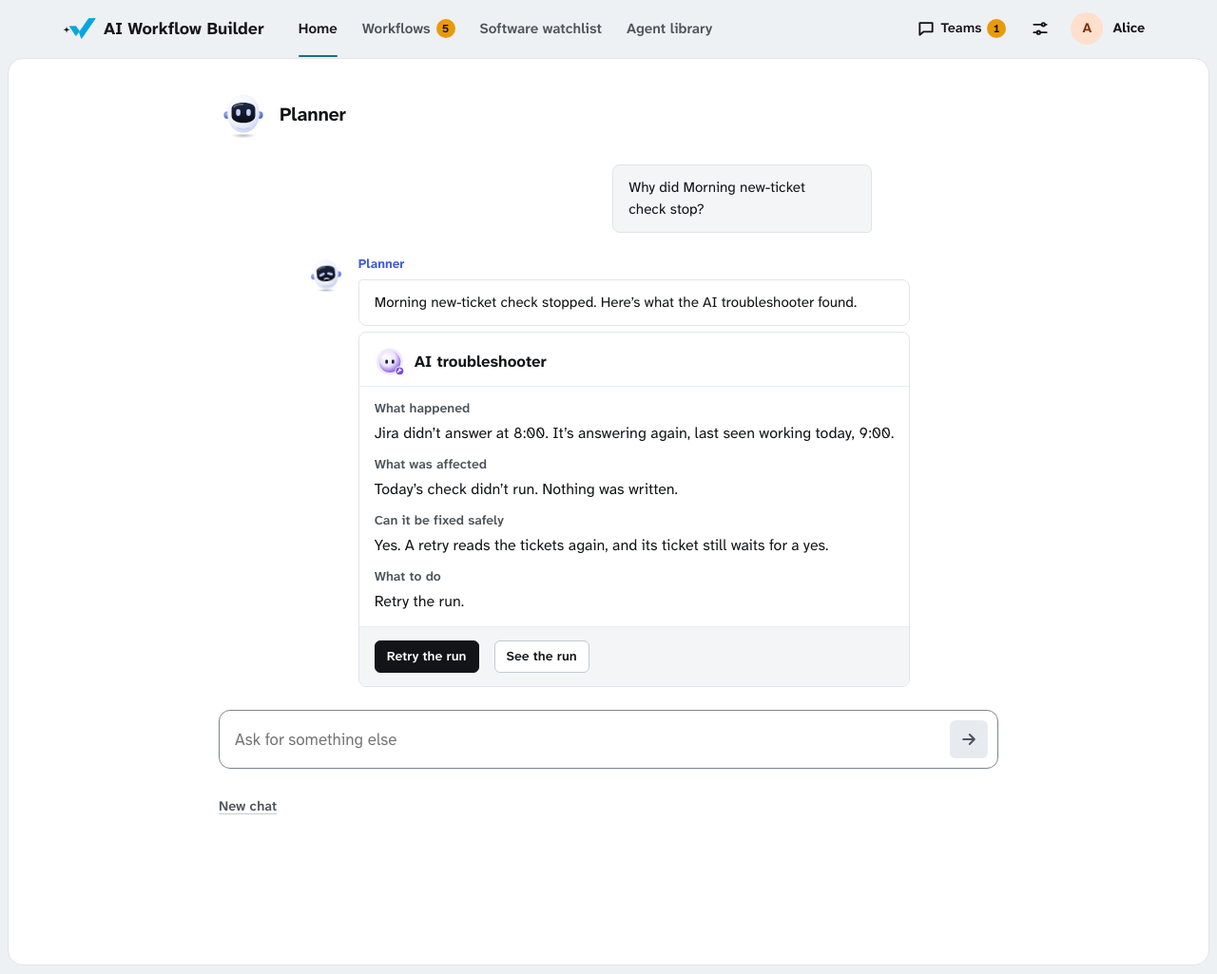
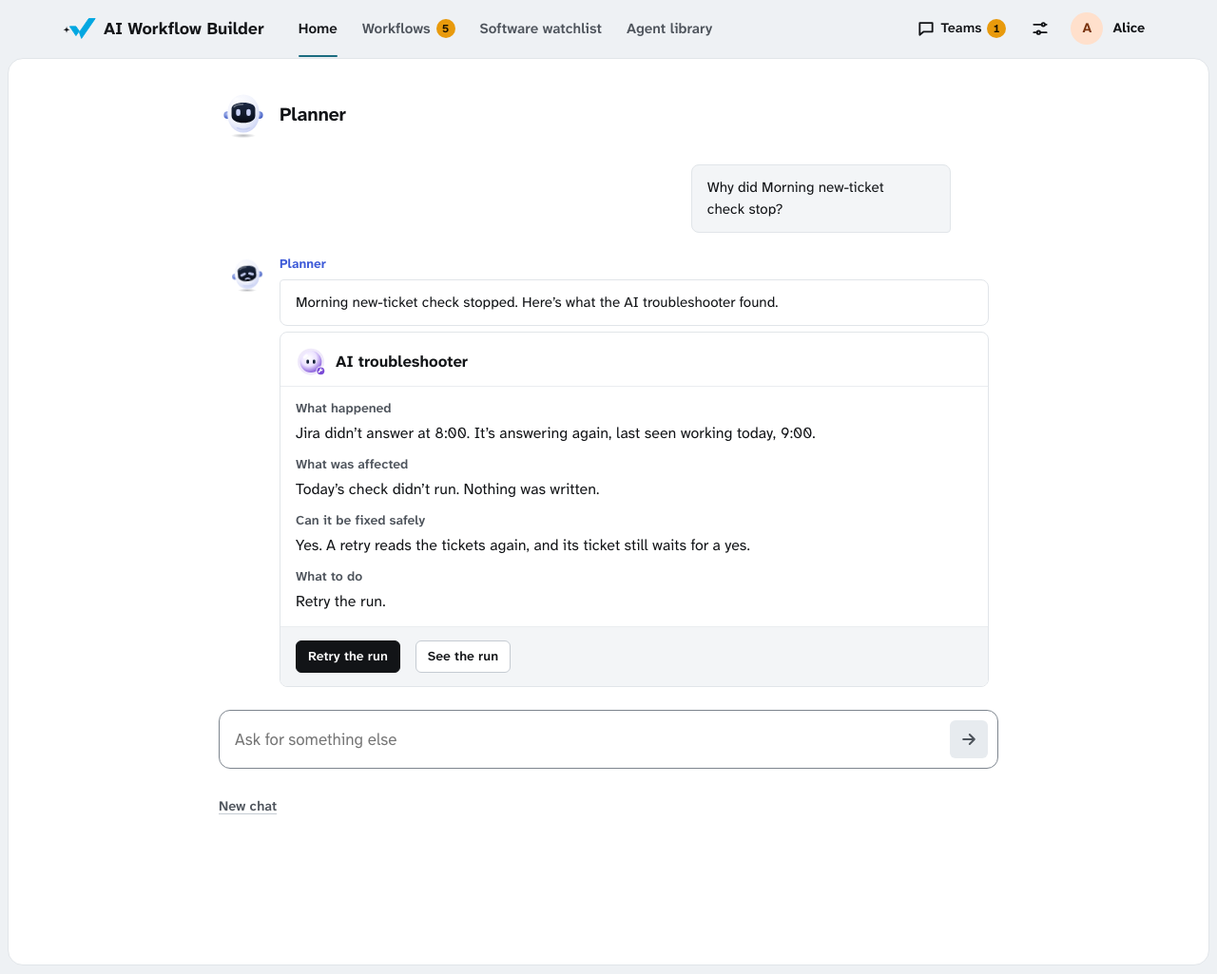
docs(builder): measure fix round C and add the user journey comparison
Re-ran every check on 513b95a: 40 of 40 scenarios twice with identical
counts, the judge's validate-v4 31 of 31, all four builder gates, axe 0
serious or critical, and 52 after screenshots. Adds
USER-JOURNEY-COMPARISON.md (deliverable C) from the measured counts, and
fills spec section 20 with the results.

Claude-Session: https://claude.ai/code/session_0163kLzc62RqJZvY6wd8CwRb

Changed region(s): [[0.1875, 0.2498, 0.75, 0.6244], [0.2188, 0.6556, 0.4688, 0.718], [0.5, 0.1873, 0.7188, 0.2185]]

diff --git a/docs/design/ai-native-redesign/USER-JOURNEY-COMPARISON.md b/docs/design/ai-native-redesign/USER-JOURNEY-COMPARISON.md
@@ -1,0 +1,258 @@
+# User journey comparison: version 3 against version 4
+
+This document compares the 6 Nov prototype (version 3, `docs/design/portal-routines/prototype.html`) with the AI-native redesign (version 4, `docs/design/ai-native-redesign/prototype.html`). It covers scenarios A to H from the redesign brief and the 15 tasks the 6 Nov handover lists for version 3.
+
+Every count here was measured by a script. None is an estimate. Where something can't be counted, such as how clear a sentence is or how sure a person feels, this document says so. Those questions need a study with real support staff (section 6).
+
+## 1. How the numbers were made
+
+- `checks/run.cjs` drove both prototypes in a real browser (Playwright, Chromium) along scripted paths. Version 3's paths are `checks/paths-v3.cjs`, version 4's are `checks/paths-v4.cjs`. An independent judge wrote version 4's paths, not the people who built version 4.
+- Each path takes the shortest route a first-time user could see on the screen. It uses no hidden shortcuts.
+- The counts are:
+  - **Clicks.** Every button press, including a key press on a button and every menu step.
+  - **Fields.** Every text box typed into.
+  - **Selects.** Every drop-down choice.
+  - **Decisions.** Steps where the person chooses something that matters, such as a project, a time, Approve or Delete. A decision is also counted as a click, a field or a select.
+  - **Screens.** Distinct pages visited, counting the starting page.
+- Test controls (the person switch, Planned features, the simulations) are never counted.
+- Each path also checks what the screen says at each step. A path that reaches the end with the wrong text fails.
+- Version 4 was measured twice. Both runs gave identical counts and results for all 40 scenarios (`checks/results/v4.json`, `v4-second.json`).
+- The raw tables are `checks/results/v3.md`, `v4.md` and `v4-compare.md`.
+
+### What the counts can't show
+
+- A scripted path knows where everything is. A real person may look in the wrong place first. The counts are a floor, not a prediction of real effort.
+- The counts say nothing about time, mistakes, understanding or confidence.
+- A lower count is not better by itself. Three rises in version 4 were chosen to make approvals safer or the screen clearer. Each is named below with its reason.
+
+### Comparisons that are not like for like
+
+Version 4 changed some sample data to stop showing things the platform can't do (UX audit X2 and I2). Three scenarios moved because of that, not only because of the design:
+
+- **B, F and T9.** In version 3 the stopped workflow was a GitHub project that had moved, fixed by choosing the new address. The built tools can't read the data that sample needed, so version 4's stopped workflow is "Jira not answering", fixed by a retry. The moved project now lives on the Software watchlist as "Use the new address". Part of the one-click saving in B, F and T9 comes from the easier sample stop.
+- **D.** Version 3 offered an alternative to the email request. Version 4 offers only Ask the team, because the request also needs a ticket's type, which the agents can't read. The count is the same. The outcome is different on purpose.
+- **T2, T11, T13 and T14** changed their sample for the same honesty reasons. Their rows say why.
+
+## 2. Scenarios A to H at a glance
+
+Counts are clicks / fields / selects / decisions / screens at 1280 px wide. A and B also ran at 390 px with the same counts as at 1280.
+
+| Scenario | Version 3 | Version 4 | Change in interactions | Passed on version 4 |
+|---|---|---|---|---|
+| A. First-time Operator | 2 / 2 / 1 / 3 / 1 | 2 / 2 / 1 / 3 / 1 | 0 | yes |
+| B. Experienced Operator, through Workflows | 3 / 0 / 0 / 1 / 3 | 2 / 0 / 0 / 1 / 3 | -1 | yes |
+| B. Experienced Operator, from Home (new) | not possible | 1 / 0 / 0 / 1 / 2 | -2 against B in version 3 | yes |
+| C. Approver | 2 / 0 / 0 / 1 / 2 | 2 / 0 / 0 / 1 / 2 | 0 | yes |
+| C. Operator can't approve their own run | 3 / 1 / 1 / 3 / 2 | 4 / 1 / 1 / 3 / 2 | +1 | yes |
+| D. Unsupported request | 1 / 1 / 0 / 0 / 1 | 1 / 1 / 0 / 0 / 1 | 0 | yes |
+| E. AI misunderstanding | 3 / 1 / 2 / 2 / 1 | 3 / 1 / 2 / 2 / 1 | 0 | yes |
+| F. Failed execution | 7 / 0 / 0 / 2 / 3 | 6 / 0 / 0 / 2 / 3 | -1 | yes |
+| G. Software monitoring | 4 / 1 / 0 / 2 / 1 | 4 / 1 / 0 / 2 / 1 | 0 | yes |
+| H. Workflow management | 9 / 1 / 2 / 5 / 3 | 10 / 1 / 2 / 5 / 3 | +1 | yes |
+
+The interaction change is clicks plus fields plus selects.
+
+## 3. Each scenario
+
+### A. First-time Operator
+
+**The task.** A new Operator signs in on day one and wants a weekly Jira summary.
+
+**Version 3.** Type "every Friday, sum up the tickets we closed this week", press Enter, choose the time, choose the Jira project, Turn it on.
+
+**Version 4.** The same five steps, with the project asked before the time.
+
+**What the brief asked to measure.**
+
+- **Is the starting action obvious?** On day one, Home in both versions is the Planner's box with "What does your team do again and again?". Version 4 adds a short "I can" list under it, with "What can't I do yet?" folded away (spec 5.2). The keyboard path reaches the box in 3 key presses, using the skip link (`KEYS-A`). Whether a new person sees the box as the place to start can't be measured by a script.
+- **Number of decisions.** 3 in both: the Jira project, the time, and Turn it on.
+- **Unnecessary prompts.** The Planner asks back twice in both versions, for the project and the time. The request names neither, and neither has a safe guess. The card never guesses a time (spec 7.1). So no prompt was unnecessary by this measure.
+- **Does the summary make sense?** Version 4's card reads as one sentence, for example "Every Friday at 16:00, find the tickets closed this week in Jira project MOCK, sum them up, and put the summary in one new Jira ticket." Version 3 marked parts green as "from your words" when the Planner had changed them (UX audit SC1). Version 4 marks a part as hers only when the words came from her request. The check `card-agrees` confirms the sentence, the footer and the disabled reason agree after every edit. Whether people understand the sentence needs real users.
+- **Is the approval behaviour clear?** The card's "What needs a yes" section names today's rule: "Any Approver on your team except you can say yes." Version 3's footer said "One yes turns it on", which mixed up her own click with an Approver's decision (review item 13). Version 4's footer reads "Nothing is unclear. Turn it on when you're ready."
+
+**Why the counts didn't move.** The design work in A went into what the card says, not into its steps. The count was already low.
+
+### B. Experienced Operator
+
+**The task.** An Operator wants to know what needs attention today, and to find and act on a stopped workflow.
+
+**Version 3.** Open Workflows, See why and fix it (opens the run page), "Use langchain-ai/langchain and retry". 3 clicks, 3 screens.
+
+**Version 4 through Workflows.** Open Workflows, Retry the run. The AI troubleshooter's answer sits on the Workflows row, so the run page is no longer a step before the retry. 2 clicks.
+
+**Version 4 from Home (B-home).** Home shows Needs you only when something needs her. The stopped workflow is its first row, with Retry the run on it. 1 click.
+
+**How quickly can she find and act on it?** 1 click from Home, down from 3. Two things caused the saving:
+
+- **Design.** Needs you on Home (spec 5.1), and the troubleshooter's answer on the row.
+- **Sample data.** The stop is now one a retry fixes, which needs no choice (section 1). In version 3 the fix also needed choosing the new address.
+
+The counts can't separate the two. A fair reading is that the design removed the trip to Workflows and the run page, and the sample removed a choice.
+
+**Counts agree.** The number of things that need her is the same on Home, Workflows, the tab badge and the Planner's "What needs me?" answer in every state the check covers. Those states run from a normal week through approvals, retries, a pause, Bob's view and no AI model, to day one with Jira down (`counts-agree`). Version 3's counts could disagree (I8).
+
+### C. Approver
+
+**The task.** Bob, an Approver only, opens a waiting request, sees what will change and why, and approves.
+
+**Version 3 and version 4.** Review and decide, Approve. 2 clicks, 2 screens in both.
+
+**Are the action, evidence and consequences clear?** The approval panel (spec 10.4) lists:
+
+- what will change, with each ticket's title;
+- why, with links to the evidence;
+- who asked;
+- what happens on a yes and on a no;
+- the person's own part.
+
+Version 3's evidence came from security-advisory and support-date sources that aren't built (I9). Version 4's evidence is the GitHub release notes, which the platform really reads. The count is the same, and what Bob reads is now true. Whether he understands it needs real users.
+
+**Can anyone bypass the server's check?** A prototype can't prove server behaviour. What the prototype and the checks show:
+
+- The Teams card has one button, Open in AI Workflow Builder. Nobody can approve inside Teams (ADR 0036). `teams-drawer-never-approves` checks this, and the judge's planted Approve button in Teams was caught.
+- On her own test run, Alice sees why she can't decide and no Approve button (`C-self`, and three roles checks).
+- Whoever owns the workflow, started the run or retried it can't decide. The prototype reads this from one function, `partiesOf`, the same set the built gate refuses.
+- With Planned features shown, the access review needs Bob, then Alice, in that order. Each is blocked from the other's step.
+
+The real enforcement is in the built API, not the prototype. The server builds the set of people who can't decide at `platform-api/src/platform_api/orchestration/service.py:664` (owner, starter and everyone who retried). `platform-api/tests/test_approvals.py` covers the rule (`test_decide`, `test_own_work_serializes_as_the_http_refusal`).
+
+**C-self rose by 1 click.** On a normal week, Home suggests next steps from what is going on. The set-up examples sit behind "Set up another workflow", so starting from an example takes one tap more. This buys a lighter Home for the person who comes back every day. It costs one tap for the person starting a new workflow from an example. Typing the request still costs nothing extra.
+
+### D. Unsupported request
+
+**The task.** An Operator asks "email me a list of open bugs every Monday". Email isn't on the team's plan.
+
+**Version 3.** Type, press Enter. The Planner explained the limit and offered an alternative.
+
+**Version 4.** Type, press Enter. The Planner says email isn't on the team's plan, and that it can't tell a ticket's type yet, so it can't find "bugs". The only next step is Ask the team.
+
+**Does it explain the limit and offer realistic alternatives?** It explains both limits in plain words: "I can't tell a ticket's type yet, and I can't send email." It offers no alternative here, because none would be realistic. An alternative is offered only when it sets up with every part working (review item 2). The judge's check `alternatives-set-up-cleanly` sent 18 requests, and each of the 15 alternatives offered set up with nothing red.
+
+When email is the only missing part, the Planner does offer the rest. "Every Friday, sum up the tickets we closed this week and email it to me" gets "I can write that summary, but I can't send email", with Set that up for the summary in a Jira ticket.
+
+**Why this matters.** Version 3's alternatives included things the agents can't do, such as listing tickets with no update for 30 days (X2). A person who took one would hit a second "can't". Version 4 trades a friendlier first answer for one that doesn't lead into a dead end.
+
+### E. AI misunderstanding
+
+**The task.** The Planner guesses the wrong Jira project and the wrong day. The person corrects both on the card without starting again.
+
+**Both versions.** Type, press Enter, correct the project, open the schedule, correct the day, close the schedule. 3 clicks, 1 field, 2 selects, 1 screen.
+
+**Can she correct it quickly without restarting?** Yes, in both. Each fix is a tap on the chip, in place. In version 4 the sentence, the footer and the disabled reason redraw together after each edit (`card-agrees`). The ticket set also follows the schedule. If she changes a weekly run to daily, "tickets closed this week" becomes "tickets created in the last day", or turns amber when the meaning would change (`card-ticket-set-follows-schedule`). Version 3 kept the old ticket set, so the card could say one thing and do another.
+
+### F. Failed execution
+
+**The task.** A run stopped because an outside system isn't answering. The Operator should understand it, recover when allowed, or pass it on.
+
+**Version 3.** Open Workflows, See why and fix it, use the new address and retry, back to Workflows, Report to support, Send report, Done. 7 clicks.
+
+**Version 4.** Open Workflows, Retry the run, back to Workflows, Report to support, Send report, Done. 6 clicks.
+
+**Can she understand, recover or escalate?**
+
+- **Understand.** The AI troubleshooter's answer says what happened, whether it's safe, and what to do, on the row itself (spec 10.3). The built troubleshooter is a lookup table, so the prototype only shows answers that table can give. Version 3 named a cause ("down for maintenance") the troubleshooter can't know (review item 3). Version 4 doesn't.
+- **Recover when allowed.** Retry the run is offered only when a retry can work. While Jira is still down, the retry doesn't start, and the toast says "Jira still isn't answering, so the run can't start" (`down-state-honest`). With no AI model, an agent workflow's retry is held too (`offline-honest`).
+- **Escalate.** A platform fault offers Report to support, never a retry. The case then moves through Reported, Support is looking at it, and Fixed. After the fix, a retry stops at the approval gate and waits for a yes like any run.
+
+**Why the count fell.** As in B, partly because the troubleshooter's answer sits on the row, and partly because the sample stop needs no choice.
+
+### G. Software monitoring
+
+**The task.** A person types "Monitor Kubernetes releases" on Home and should end with Kubernetes on the Software watchlist, without knowing where that page is.
+
+**Both versions.** Type, press Enter, Looks right, "Not sure? Start from the newest", Add Kubernetes. 4 clicks, 1 field, 1 screen.
+
+**Is the request routed without navigation knowledge?** Yes in both. The Planner sends the request to the watchlist from Home. Version 4 also stops showing the security-advisory, package-registry and support-date sources as working. Those sources aren't built (I9). By default they read "Not yet". With Planned features on, they are tagged Planned.
+
+### H. Workflow management
+
+**The task.** Pause one workflow, change its schedule, and delete another with its confirmation.
+
+**Version 3.** Open Workflows, open the workflow, Change schedule, three choices, Save, Pause, back, open the other workflow, Delete, Delete workflow. 9 clicks.
+
+**Version 4.** The same, except Delete sits in More actions, so it takes one more tap. 10 clicks.
+
+**Are these actions discoverable and safe?**
+
+- **Discoverable.** Pause is a visible button beside More actions. While a workflow is paused, its banner explains the state and holds Resume, the one primary action for that state (spec 9). Change schedule is on the page. Delete is last in More actions, after a divider.
+- **Safe.** Delete always asks for a confirmation that names the workflow. Saving the watchlist check's schedule makes the person who saved it its owner, so they can't approve its runs (`roles-owner-after-schedule-save`). Pausing a stopped workflow takes it out of Needs you.
+
+**Why the count rose by 1.** Delete moved into More actions. A destructive action one tap further away, behind a divider, is harder to hit by mistake. We judge that worth one tap. Nothing measured here shows whether people find Delete there. The study should test it.
+
+**New in version 4 (H2).** Version 3 had no way to remove a draft set-up card. Version 4 has Discard on Workflows, 2 clicks.
+
+## 4. The 15 tasks from the handover
+
+Counts are clicks / fields / selects / decisions / screens at 1280 px.
+
+| Task | Version 3 | Version 4 | Change | Why |
+|---|---|---|---|---|
+| T1. Set up from example 1 | 2 / 1 / 1 / 3 / 1 | 3 / 1 / 1 / 3 / 1 | +1 | Examples sit behind "Set up another workflow" on a normal week (spec 5.1). |
+| T2. Set up a typed request with every part stated | 2 / 1 / 0 / 1 / 1 | 2 / 1 / 0 / 1 / 1 | 0 | Version 3's request needed a ticket's update date, which the tools can't read (X2). Version 4 types a request the tools can do. |
+| T3. Do a test run | 1 / 0 / 0 / 0 / 2 | 1 / 0 / 0 / 0 / 2 | 0 | |
+| T4. Add software from a Home example | 4 / 0 / 0 / 2 / 1 | 5 / 0 / 0 / 2 / 1 | +1 | The React example sits behind "Set up another workflow". |
+| T5. Add software on the watchlist page | 2 / 2 / 0 / 0 / 2 | 3 / 2 / 0 / 0 / 2 | +1 | Add software takes plain words and looks the project up first (spec 11). An unknown project then asks for the repository. |
+| T6. Approve from Workflows | 3 / 0 / 0 / 1 / 3 | 3 / 0 / 0 / 1 / 3 | 0 | |
+| T7. Approve from Home as an Approver only | 2 / 0 / 0 / 1 / 2 | 2 / 0 / 0 / 1 / 2 | 0 | |
+| T8. Approve from Teams | 2 / 0 / 0 / 1 / 1 | 3 / 0 / 0 / 1 / 2 | +1 | Teams carries the request, and its one button opens the approval page (ADR 0036). Version 3 let people approve inside Teams, which the built app does not allow. |
+| T9. Fix a stop the user can fix | 3 / 0 / 0 / 1 / 3 | 2 / 0 / 0 / 1 / 3 | -1 | The troubleshooter's answer is on the row. The sample stop is a retry (section 1). |
+| T10. Report a platform bug | 4 / 0 / 0 / 1 / 2 | 4 / 0 / 0 / 1 / 2 | 0 | |
+| T11. Pause a workflow | 3 / 0 / 0 / 1 / 3 | 3 / 0 / 0 / 1 / 3 | 0 | The access review is Planned and hidden by default (I2), so another workflow is paused. |
+| T12. Delete a workflow | 4 / 0 / 0 / 1 / 3 | 5 / 0 / 0 / 1 / 3 | +1 | Delete is last in More actions, after a divider (spec 9). |
+| T13. Change who approves | 4 / 0 / 2 / 2 / 3 | 4 / 0 / 2 / 2 / 3 | 0 | Named Approvers (ADR 0024) aren't built. The task exists only with Planned features shown, tagged Planned (I4). |
+| T14. Change an agent in plain English | 5 / 0 / 0 / 1 / 2 | 6 / 0 / 0 / 1 / 2 | +1 | Changing an agent is Planned, so the task exists only with Planned features shown. The Agent library opens on "What it can do", so the agents are one tab away. |
+| T15. Ask the team after a "can't" | 1 / 0 / 0 / 1 / 1 | 1 / 0 / 0 / 1 / 1 | 0 | |
+
+All 15 tasks are still possible. T13 and T14 need Planned features shown, because the features behind them aren't built. Showing them as working by default would break the brief's rule against faking support.
+
+## 5. New journeys in version 4
+
+These have no version 3 baseline, because version 3 had no way to do them.
+
+| Journey | Counts | What it shows |
+|---|---|---|
+| B-home. Act on a stop from Home | 1 / 0 / 0 / 1 / 2 | Needs you on Home with the action on the row. |
+| ASK-status. "Check my workflows" | 1 / 0 / 0 / 0 / 1 | The Planner answers from live state. The answer changes after a retry (`planner-answers-live`). |
+| ASK-why. "Why did the Morning new-ticket check stop?", then retry | 2 / 1 / 0 / 1 / 2 | The Planner gives the troubleshooter's answer and the retry in the chat. |
+| ASK-needs. "What needs me?" | 1 / 1 / 0 / 0 / 1 | The same count as Home and Workflows. |
+| OFFLINE. No AI model | 1 / 0 / 0 / 0 / 2 | Home says agent workflows can't run without a model, in the built app's words, and offers one Connect a model button. |
+| DOWN. Jira stops answering | 1 / 1 / 0 / 0 / 1 | The Planner says Jira isn't answering and offers to keep the request as a draft, so nothing is lost and nothing is set up on a system that's down. |
+| PREVIEW. Planned features shown | 3 / 0 / 0 / 0 / 4 | Every planned part carries a Planned tag (`preview-tags-planned`). |
+| KEYS-A. Scenario A by keyboard only | 19 key presses, 2 fields, 3 decisions | Every step is reachable with Tab and Enter, with visible focus. |
+| KEYS-C. Scenario C by keyboard only | 12 key presses, 1 decision | Approve is reachable with visible focus. |
+| H2. Discard a draft | 2 / 0 / 0 / 1 / 2 | Version 3 had no way to remove a draft. |
+
+The keyboard journeys have no version 3 count, so they show reach, not improvement.
+
+## 6. What got heavier
+
+Version 4 is not lighter everywhere. Home on a normal week carries more.
+
+| Home | Words | Controls |
+|---|---|---|
+| Version 3, normal week | 61 | 6 |
+| Version 4, normal week | 92 | 10 |
+| Version 3, day one | 122 | |
+| Version 4, day one | 114 | 5 |
+
+The extra words and controls on a normal week are Needs you and the suggestions drawn from what is going on. They let B-home take 1 click instead of 3. Home keeps one primary button in every state (`home-one-primary`). Whether the busier Home is easier to scan, or just busier, is a question for real users.
+
+Seven counts rose by one click (C-self, H, T1, T4, T5, T8, T12; T14 also needs Planned features shown). Each is explained above. Four of them buy safety or truth: T8 (no approving in Teams), H and T12 (Delete behind a divider), and T5 (look the project up before adding it). Three are the cost of a lighter normal-week Home (C-self, T1, T4).
+
+## 7. What a study with real users should measure
+
+Everything above comes from automated checks. No support staff have used version 4. A study with CODESparks support Operators should come next. It should run scenarios A to H on both versions and measure:
+
+- **Task success.** Did the person finish without help?
+- **Time to finish.**
+- **Errors.** Wrong turns, wrong taps and anything undone.
+- **Confidence.** After each scenario, how sure they were that it did what they wanted.
+- **Perceived effort.** For example, the Single Ease Question after each task.
+
+It should also answer the questions the counts raised:
+
+- Is Home on a normal week easier to scan, or only busier (section 6)?
+- Do people find Delete inside More actions (H)?
+- Do people understand the set-up card's sentence, and the "What needs a yes" line (A)?
+- When the Planner offers only Ask the team (D), do people feel stuck, or well informed?
+- Does Bob understand what will change and why before he approves (C)?

diff --git a/docs/design/ai-native-redesign/screenshots/README.md b/docs/design/ai-native-redesign/screenshots/README.md
@@ -19,7 +19,7 @@ A full-page phone shot shows the fixed tab bar once, where the page was when it 
 | Run page, stopped | [before](before/run-stopped-desktop.png), [after](after/run-stopped-desktop.png) | [before](before/run-stopped-phone.png), [after](after/run-stopped-phone.png) | The AI troubleshooter gives four answers and Retry the run. The agents’ conversation is behind Show what each agent did. |
 | Run page, approval | [before](before/run-approval-desktop.png), [after](after/run-approval-desktop.png) | [before](before/run-approval-phone.png), [after](after/run-approval-phone.png) | The panel is What will change, Why, Who asked, What happens and Your part. It has no vulnerability scores, because those sources are planned. |
 | Software watchlist | [before](before/software-desktop.png), [after](after/software-desktop.png) | [before](before/software-phone.png), [after](after/software-phone.png) | Needs attention comes first with the LangServe address fix. Every source is GitHub, the other sources say Not yet, and FastAPI’s newest version is 0.120.1 everywhere. |
-| Agent library | [before](before/agent-library-desktop.png), [after](after/agent-library-desktop.png) | [before](before/agent-library-phone.png), [after](after/agent-library-phone.png) | The Agents tab (version 4 opens on What it can do) shows six agents instead of nine, each with Details only. Its footer still says you can change an agent in plain English, which is hidden by default. |
+| Agent library | [before](before/agent-library-desktop.png), [after](after/agent-library-desktop.png) | [before](before/agent-library-phone.png), [after](after/agent-library-phone.png) | The Agents tab (version 4 opens on What it can do) shows six agents instead of nine, each with Details only. Its footer says only what works today. Changing an agent in plain English shows only with Planned features on, tagged. |
 | Agent library, Tools | [before](before/agent-library-tools-desktop.png), [after](after/agent-library-tools-desktop.png) | [before](before/agent-library-tools-phone.png), [after](after/agent-library-tools-phone.png) | Four tools instead of twelve, matching the built agents. Asking for a new tool goes to the team. |
 | Settings, Connections | [before](before/settings-connections-desktop.png), [after](after/settings-connections-desktop.png) | [before](before/settings-connections-phone.png), [after](after/settings-connections-phone.png) | Each connection says what uses it in plain words. A running-out key says who to ask, with no Replace button, and there is no Usage tab. |
 | Teams drawer | [before](before/teams-drawer-desktop.png), [after](after/teams-drawer-desktop.png) | [before](before/teams-drawer-phone.png), [after](after/teams-drawer-phone.png) | Approve and Decline are gone. The card says who can decide and who can’t, and its one button opens the approval page. |
@@ -42,7 +42,9 @@ A full-page phone shot shows the fixed tab bar once, where the page was when it 
 
 ## What the judge saw in the after images
 
-Every after image was opened and looked at. None is blank or half-typed, and quality.cjs measured no sideways scroll at 390 px. Since the first pass, the phone placeholder fits, the Settings tabs wrap instead of running off the edge, the check-my-workflows rows stack, and the “Not built” label is no longer cut short. These are still visible:
+Every after image was opened and looked at. None is blank or half-typed, and quality.cjs measured no sideways scroll at 390 px. Since the first pass, the phone placeholder fits, the Settings tabs wrap instead of running off the edge, the check-my-workflows rows stack, and the “Not built” label is no longer cut short.
+
+The judge saw the problems below at b6cc589. Fix round C (513b95a) fixed each one, and all 52 after images were shot again on 513b95a. The lead opened the six images these problems were in (`planner-cant-email-desktop`, `planner-check-workflows-desktop`, `offline-home-phone`, `software-attention-desktop`, `run-approval-desktop`, `agent-library-desktop`) and saw each one fixed. The Resume problem is not in a shot. Scenario H in `checks/results/v4.json` now passes, and so does every check in `v4-validate.json`.
 
 - The Planner’s answers start at different places. Measured at 0, 900 and 3900 ms after the reply, the set-up card sits at x 294 to 1040, the can’t-email answer at 304 to 1030 and the check-my-workflows answer at 409 to 925. It is a layout difference, not an animation caught mid-way (`planner-check-workflows-desktop`, `planner-why-stopped-desktop`, `planner-cant-email-desktop`).
 - On `offline-home-phone` the Ask the team box’s placeholder is cut off (“Ask the team for something that isn’t”).

diff --git a/docs/design/ai-native-redesign/AI-NATIVE-UX-REDESIGN.md b/docs/design/ai-native-redesign/AI-NATIVE-UX-REDESIGN.md
@@ -514,9 +514,38 @@ Everything in the prototype is simulated. Specifically:
 
 ## 20. How it was checked
 
-- The same harness ran scenarios A to H and the 15 tasks of version 3 on both versions, counting clicks, typed fields, choices and pages (`checks/`).
-- Checks for each of I1 to I9, keyboard reach, focus visibility, axe, phone width and reduced motion are in `checks/` too, with their results.
-- These are automated checks, not user research. A study with real CODESparks support staff should come next. It would measure:
+All results below are for commit 513b95a. Their files are in `checks/results/`. `USER-JOURNEY-COMPARISON.md` compares each scenario.
+
+- **Scenarios.** The same harness (`checks/run.cjs`) ran scenarios A to H and the 15 tasks of version 3 on both versions, counting clicks, typed fields, choices and pages.
+  - Version 3 passed 27 of 27. Removing a draft was not possible in version 3.
+  - Version 4 passed all 40 of its scenarios. These include 12 new ones: acting from Home, the Planner's status answers, no AI model, Jira down, Planned features shown, and scenarios A and C done by keyboard only.
+  - A second run gave identical counts for all 40.
+- **The judge's checks.** An independent judge wrote `checks/paths-v4.cjs` and `checks/validate-v4.cjs`, separate from the builders. `validate-v4.cjs` passed 31 of 31, and its seeded control failed as it should. The checks cover:
+  - counts that agree across Home, Workflows, the tab badge and the Planner;
+  - the set-up card agreeing with itself;
+  - roles and the two Approvers in turn;
+  - no approving in Teams;
+  - refusals;
+  - no Planned or Unsupported capability shown as working;
+  - alternatives that set up cleanly (15 offered across 18 requests);
+  - no long dashes;
+  - zero console errors.
+- **Planted defects.** The judge planted 14 defects, each in its own copy of the prototype. Its checks caught all 14, each with the expected message. Examples:
+  - an Approve button in Teams;
+  - self-approval;
+  - count drift;
+  - a retry that succeeds while Jira is down;
+  - three primary buttons on Home.
+- **The builders' gates.** `gates-p0.cjs` passed 36 checks, `gates-p1a.cjs` 58, `gates-p1b.cjs` 54 and `gates-p2.cjs` 63. Each gate's seeded controls still fail. The gates check I1 to I9 by name.
+- **Quality.** `checks/quality.cjs` checked 26 screens at 1280 and 390 px.
+  - axe found 0 critical and 0 serious problems. It found 12 moderate (heading order, regions) and 2 minor.
+  - Nothing scrolls sideways at 390 px.
+  - No animation runs under reduced motion.
+  - The keyboard reaches the Operator's box in 9 Tab presses and Bob's Review and decide in 8, with visible focus at every stop.
+- **Screenshots.** 32 before and 52 after, all shot by `checks/shots.cjs` at 1280 and 390 px (`screenshots/README.md`).
+- **The build target is untouched.** `git diff main -- docs/design/portal-routines` is empty.
+
+These are automated checks, not user research. A study with real CODESparks support staff should come next. It would measure:
   - task success;
   - time to finish;
   - errors;

diff --git a/docs/design/ai-native-redesign/checks/results/v4-compare.md b/docs/design/ai-native-redesign/checks/results/v4-compare.md
@@ -17,7 +17,7 @@ Repeat run (`v4-second.json`): identical counts and results for all 40 scenarios
 | E | 1280 | 3 / 1 / 2 / 2 / 1 | 3 / 1 / 2 / 2 / 1 | 0 | yes |  | Type: a request the Planner reads as MOCK and Friday; Press Enter to send; Correct the Jira project (decision); Open the schedule; Correct the day (decision); Close the schedule |
 | F | 1280 | 7 / 0 / 0 / 2 / 3 | 6 / 0 / 0 / 2 / 3 | -1 | yes | The fixable stop is a retry (I2), offered on Workflows, so the run page is no longer a step. | Open Workflows; Retry the run (decision); Back to Workflows; Report to support; Send report (decision); Done |
 | G | 1280 | 4 / 1 / 0 / 2 / 1 | 4 / 1 / 0 / 2 / 1 | 0 | yes |  | Type: Monitor Kubernetes releases; Press Enter to send; Looks right (decision); Not sure? Start from the newest; Add Kubernetes (decision) |
-| H | 1280 | 9 / 1 / 2 / 5 / 3 | 10 / 1 / 2 / 5 / 3 | +1 | NO | Delete moved into the More actions menu (spec 9), one tap more. Pause is a button beside it. | Open Workflows; Open Morning new-ticket check; Change schedule; How often (decision); Day (decision); Time (decision); Save the schedule; Pause (decision); Back to Workflows; Open Weekly closed-ticket summary; More actions; Delete; Delete workflow (decision) |
+| H | 1280 | 9 / 1 / 2 / 5 / 3 | 10 / 1 / 2 / 5 / 3 | +1 | yes | Delete moved into the More actions menu (spec 9), one tap more. Pause is a button beside it. | Open Workflows; Open Morning new-ticket check; Change schedule; How often (decision); Day (decision); Time (decision); Save the schedule; Pause (decision); Back to Workflows; Open Weekly closed-ticket summary; More actions; Delete; Delete workflow (decision) |
 | T1 | 1280 | 2 / 1 / 1 / 3 / 1 | 3 / 1 / 1 / 3 / 1 | +1 | yes | Normal-week Home suggests from state. The examples sit behind “Set up another workflow” (spec 5.1). | Tap Set up another workflow; Tap the first starting point; Choose the Jira project (decision); Choose the time (decision); Turn it on (decision) |
 | T2 | 1280 | 2 / 1 / 0 / 1 / 1 | 2 / 1 / 0 / 1 / 1 | 0 | yes | The v3 request needs a ticket’s update date, which the Jira tool can’t see (UX audit X2), so v4 answers “Part I can do”. The typed request is one the tools can do. | Type: a request with every part stated; Press Enter to send; Turn it on (decision) |
 | T3 | 1280 | 1 / 0 / 0 / 0 / 2 | 1 / 0 / 0 / 0 / 2 | 0 | yes |  | Do a test run |

diff --git a/docs/design/ai-native-redesign/checks/results/v4-second.md b/docs/design/ai-native-redesign/checks/results/v4-second.md
@@ -2,7 +2,7 @@
 
 Prototype: `docs/design/ai-native-redesign/prototype.html`. Paths: `docs/design/ai-native-redesign/checks/paths-v4.cjs`.
 
-Real scenarios: 39 passed, 1 failed, 0 not possible. Control (must fail): failed, as it should.
+Real scenarios: 40 passed, 0 failed, 0 not possible. Control (must fail): failed, as it should.
 
 | Id | Width | Task | Passed | Clicks | Fields | Selects | Decisions | Screens | Notes |
 |---|---|---|---|---|---|---|---|---|---|
@@ -17,7 +17,7 @@ Real scenarios: 39 passed, 1 failed, 0 not possible. Control (must fail): failed
 | E | 1280 | The user corrects the Planner’s guess of project and schedule on the card, without starting again | yes | 3 | 1 | 2 | 2 | 1 |  |
 | F | 1280 | Recover the stop the user can fix, and report the platform bug to support | yes | 6 | 0 | 0 | 2 | 3 |  |
 | G | 1280 | Monitor Kubernetes releases from Home ends with Kubernetes on the Software watchlist | yes | 4 | 1 | 0 | 2 | 1 |  |
-| H | 1280 | Pause a workflow, change its schedule, and delete one with its confirmation | NO | 10 | 1 | 2 | 5 | 3 |  |
+| H | 1280 | Pause a workflow, change its schedule, and delete one with its confirmation | yes | 10 | 1 | 2 | 5 | 3 |  |
 | T1 | 1280 | Set up a workflow from example 1: example, time, Jira project, Turn it on | yes | 3 | 1 | 1 | 3 | 1 |  |
 | T2 | 1280 | Set up a typed workflow with every part stated: type, Enter, Turn it on | yes | 2 | 1 | 0 | 1 | 1 |  |
 | T3 | 1280 | Do a test run after turning one on | yes | 1 | 0 | 0 | 0 | 2 |  |

diff --git a/docs/design/ai-native-redesign/checks/results/v4.md b/docs/design/ai-native-redesign/checks/results/v4.md
@@ -2,7 +2,7 @@
 
 Prototype: `docs/design/ai-native-redesign/prototype.html`. Paths: `docs/design/ai-native-redesign/checks/paths-v4.cjs`.
 
-Real scenarios: 39 passed, 1 failed, 0 not possible. Control (must fail): failed, as it should.
+Real scenarios: 40 passed, 0 failed, 0 not possible. Control (must fail): failed, as it should.
 
 | Id | Width | Task | Passed | Clicks | Fields | Selects | Decisions | Screens | Notes |
 |---|---|---|---|---|---|---|---|---|---|
@@ -17,7 +17,7 @@ Real scenarios: 39 passed, 1 failed, 0 not possible. Control (must fail): failed
 | E | 1280 | The user corrects the Planner’s guess of project and schedule on the card, without starting again | yes | 3 | 1 | 2 | 2 | 1 |  |
 | F | 1280 | Recover the stop the user can fix, and report the platform bug to support | yes | 6 | 0 | 0 | 2 | 3 |  |
 | G | 1280 | Monitor Kubernetes releases from Home ends with Kubernetes on the Software watchlist | yes | 4 | 1 | 0 | 2 | 1 |  |
-| H | 1280 | Pause a workflow, change its schedule, and delete one with its confirmation | NO | 10 | 1 | 2 | 5 | 3 |  |
+| H | 1280 | Pause a workflow, change its schedule, and delete one with its confirmation | yes | 10 | 1 | 2 | 5 | 3 |  |
 | T1 | 1280 | Set up a workflow from example 1: example, time, Jira project, Turn it on | yes | 3 | 1 | 1 | 3 | 1 |  |
 | T2 | 1280 | Set up a typed workflow with every part stated: type, Enter, Turn it on | yes | 2 | 1 | 0 | 1 | 1 |  |
 | T3 | 1280 | Do a test run after turning one on | yes | 1 | 0 | 0 | 0 | 2 |  |
